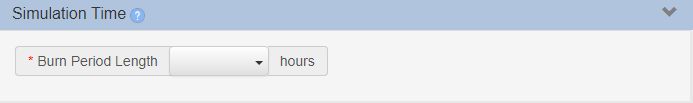
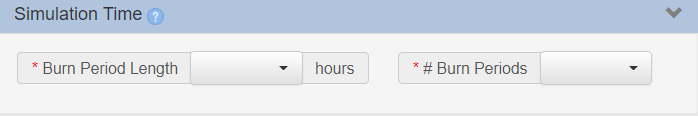
project updates

diff --git a/Content/20-Models/MTT/MTTTutorial.htm b/Content/20-Models/MTT/MTTTutorial.htm
@@ -3,8 +3,64 @@
     <head>
     </head>
     <body>
-        <h1>How to Run Minimum Travel Time (MTT)</h1>
-        <p><a href="https://firenet365.sharepoint.com/:w:/r/sites/IFTDSS_Non_Gov/Shared Documents/General/IBM IFTDSS/IFTDSS Development/Help/Help Center/MTT/Tutorial.docx?d=w7f2e2b6e578c4a989b79c74b4fc39881&amp;csf=1&amp;web=1&amp;e=YmADoY" target="_blank">draft</a>
+        <h1>How to Run Minimum Travel Time Fire Spread (MTT)</h1>
+        <MadCap:snippetBlock src="../../Resources/Snippets/Models/MTT/NamingConventionCallOut.flsnp" />
+        <p>To run Minimum Travel Time Fire Spread (MTT) from the <MadCap:variable name="General.ProductName" /> Modeling Playground, select MTT Fire Spread from the Select Model to Run drop-down menu and click Create Run.</p>
+        <p>
+            <img src="../../Resources/Images/MyPlayground/Play_MTT.png" alt="MTT may be selected from Modeling Playground" class="border" />
         </p>
+        <h2>Choose  a Landscape</h2>
+        <p>Choose a landscape for your run from the drop-down list.</p>
+        <p>
+            <img src="../../Resources/Images/Models/InputsShared/SelectLandscape.png" alt="Select a landscape." class="border" />
+        </p>
+        <h2>Populate the Model Parameters and Run</h2>
+        <MadCap:snippetBlock src="../../Resources/Snippets/Models/LFB/LfbInputs.flsnp" />
+        <ol style="list-style-type: upper-alpha;" start="5">
+            <li>
+                <p>Specify the <a href="In/IgnitionsMTT.htm" target="_blank">ignition</a> for your landscape from the drop-down. The drop-down includes all shapes or shapefiles (points, lines, or polygons) that intersect your landscape.</p>
+                <div class="notificationTip">
+                    <p>In Split screen you may create points, lines, and polygons at anytime in the map interface and <span class="Emphasis">these features will automatically become available in the drop-down menus</span> for the Ignition and Barrier inputs. This includes  <a href="../../10-MapStudio/Functions/CreateEditShps.htm" target="_blank">creating a shape</a>, <a href="../../10-MapStudio/Functions/AddShapefile.htm" target="_blank">uploading a shapefile</a>, creating a shapefile subset <a href="../../10-MapStudio/Files/ShapefileGroup.htm" target="_blank">from the Layer List widget</a>, or <a href="../../10-MapStudio/Functions/AttributeTableShpSubset.htm" target="_blank">from the Attribute Table</a>.</p>
+                </div>
+                <p>
+                    <img src="../../Resources/Images/Models/MTT/MTT_In_Ignitions.png" alt="Shapefiles available in the Ignition field." class="borderlist" />
+                </p>
+            </li>
+            <li>
+                <p>Specify whether you want any <a href="In/BarriersMTT.htm" target="_blank">barriers</a> on your landscape.  The drop-down includes all shapes or shapefiles (lines or polygons) that intersect your landscape.</p>
+                <div class="notificationTip">
+                    <p>Barriers are useful to represent non-burnable parts of your landscape such as roads or water bodies that may not have been captured within the landscape file.</p>
+                </div>
+                <img src="../../Resources/Images/Models/MTT/MTT_In_Barriers.png" alt="Barriers may be selected for the MTT run." class="borderlist" />
+            </li>
+            <li>
+                <p>Enter the <a href="In/SimTimesMTT.htm" target="_blank">simulation time</a>, including the burn period length in hours, and the number of burn periods.</p>
+                <div class="notificationTip">
+                    <p>Use this input to represent the peak fire activity per day (in hours), and the number of days (referred to as burn periods) to model. Note that the weather and fuel moisture inputs remain the same regardless of the number of burn periods.</p>
+                </div>
+                <img src="../../Resources/Images/Models/MTT/MTT_In_SimTime.png" alt="Select the Burn Period Length and Number of Burn Periods from the Simulation Time input." class="borderlist" />
+            </li>
+            <li>
+                <p>Choose to either leave the <a href="In/SpotMTT.htm" target="_blank">Spotting probability</a> as the default 20% (recommended for many scenarios) or adjust it as needed.</p>
+                <p>
+                    <img src="../../Resources/Images/Models/InputsShared/SpottingDefault.png" alt="Spotting default is 20%." class="borderlist" />
+                </p>
+            </li>
+            <li>
+                <p>Give your run a descriptive name.</p>
+            </li>
+            <li>
+                <p>(Optional) If you choose to save your inputs and complete and run at a later time, click <span class="UIcomponent">Save</span>. The <span class="UIcomponent">Return</span> button will appear and clicking it will return you to <span class="UIcomponent">Modeling Playground</span>. To resume inputs on this MTT run, select the run in <span class="UIcomponent">Modeling Playground</span> and click the <span class="UIcomponent">Edit</span> option.</p>
+                <div class="notificationImportant">
+                    <p>A maximum of five MTT runs may be submitted at any given time. If you see a pop-up notifying you that this number has been exceeded, please save any inputs you’ve entered and complete your task when one of the other runs has completed.</p>
+                </div>
+            </li>
+            <li>
+                <p>Click <span class="UIcomponent">Run</span> to begin the model run or <span class="UIcomponent">Save</span> to save any inputs you’ve entered and complete and run the model at a later time. Once run, your model output will be available in <span class="UIcomponent">Modeling Playground</span> and <span class="UIcomponent">My Workspace</span>.</p>
+                <p>
+                    <img src="../../Resources/Images/Models/MTT/MTT_In_RunName.png" alt="Give your model run a name and click Run" class="borderlist" />
+                </p>
+            </li>
+        </ol>
     </body>
 </html>

diff --git a/Content/50-Hover/Models/MTT/ignition_hh.htm b/Content/50-Hover/Models/MTT/ignition_hh.htm
@@ -4,6 +4,29 @@
         <link href="../../../Resources/Stylesheets/NoTopNav.css" rel="stylesheet" type="text/css" />
     </head>
     <body>
-        <p>Ignition MTT</p>
+        <p>Select a shape or shapefile (it may be multipart if needed) to indicate the location and pattern of ignition on the landscape. You may use points, lines, or polygons for this task.</p>
+        <p>You may upload or create an ignition file in this interface if you do not yet have one, the drop-down menus will automatically update.</p>
+        <p>To ensure successful MTT run completion:</p>
+        <ul>
+            <li>
+                <p>Do not use ignition files that land completely in unburnable fuels or within a barrier.</p>
+            </li>
+            <li>
+                <p>If barriers are also used, ensure barriers and ignitions are at least one cell width away from each other.</p>
+            </li>
+        </ul>
+        <p>Important considerations include:</p>
+        <ul>
+            <li>
+                <p>If a polygon is used, MTT treats the area within the polygon as non-burnable; fire is not permitted to burn inward.</p>
+            </li>
+            <li>
+                <p>Once MTT is run, the ignition file will be converted to a raster format with the same resolution as the rest of the landscape.</p>
+            </li>
+            <li>
+                <p>Once a shape or shapefile is selected for the ignition input, it may not be used for the barrier input.</p>
+            </li>
+        </ul>
+        <p>See the <a href="../../../20-Models/MTT/In/IgnitionsMTT.htm" target="_blank">Ignition topic</a> for more information.</p>
     </body>
 </html>

diff --git a/Content/50-Hover/Models/MTT/barrier_hh.htm b/Content/50-Hover/Models/MTT/barrier_hh.htm
@@ -4,6 +4,21 @@
         <link href="../../../Resources/Stylesheets/NoTopNav.css" rel="stylesheet" type="text/css" />
     </head>
     <body>
-        <p>Barriers MTT</p>
+        <p>Select a shape or shapefile (it may be multipart if needed) to indicate the location and pattern of nonburnable areas on the landscape, you may use lines or polygons. This is useful for areas such as roads or water bodies that may have been classified as a burnable fuel type within the landscape file.</p>
+        <p>You may upload or create a barrier file in this interface if you do not yet have one, the drop-down menus will automatically update.</p>
+        <p>For successful MTT run completion, ensure barriers and ignitions are at least one cell width away from each other.</p>
+        <p>Important considerations include:</p>
+        <ul>
+            <li>
+                <p>If a polygon is selected, the area within will be treated as burnable unless the “fill polygon” radio button is selected.</p>
+            </li>
+            <li>
+                <p>Once MTT is run, the barrier file will be converted to a raster format with the same resolution as the rest of the landscape, if you need to represent a fuel break of a specific size, consider using a polygon rather than a line.</p>
+            </li>
+            <li>
+                <p>If a shape or shapefile is selected for the barrier input, it may not be used for the ignition input.</p>
+            </li>
+        </ul>
+        <p>See the <a href="../../../20-Models/MTT/In/BarriersMTT.htm" target="_blank">Barriers topic</a> for more information.</p>
     </body>
 </html>

diff --git a/Content/50-Hover/Models/MTT/simulation_time_hh.htm b/Content/50-Hover/Models/MTT/simulation_time_hh.htm
@@ -4,6 +4,9 @@
         <link href="../../../Resources/Stylesheets/NoTopNav.css" rel="stylesheet" type="text/css" />
     </head>
     <body>
-        <p>Simulation time MTT</p>
+        <p>Simulation Time specifies the duration of the fire growth for the set of <a href="../../../20-Models/MTT/In/EstFuelMoisturesMTT.htm" target="_blank">fuel moisture</a> and <a href="../../../20-Models/MTT/In/WindMTT.htm" target="_blank">wind</a> conditions specified.  Simulation Time is input in two steps, the first specifying the burn period length, and the second specifying the number of of burn periods.</p>
+        <p><b>Burn Period Length</b>: This describes the duration of fire activity for each burn period, in hours (1-24).</p>
+        <p><b>Number of Simulations</b>: This describes the number for burn periods (1-5) for your simulation.</p>
+        <p>See the <a href="../../../20-Models/MTT/In/SimTimesMTT.htm" target="_blank">Simulation Time topic</a> for more information.</p>
     </body>
 </html>

diff --git a/Content/50-Hover/Models/MTT/spotting_hh.htm b/Content/50-Hover/Models/MTT/spotting_hh.htm
@@ -4,6 +4,7 @@
         <link href="../../../Resources/Stylesheets/NoTopNav.css" rel="stylesheet" type="text/css" />
     </head>
     <body>
-        <p>Spotting  is intended to compute the maximum spotting distance from a given point on a fire front if torching occurs. See the <a href="../../../20-Models/MTT/In/SpotMTT.htm" target="_blank">Spotting topic</a> for more detail.</p>
+        <p>The Spotting Probability input (0-100%) controls how many of the pixels, where crown fire is initiated, actually launch embers which can “spot” to start new fires. Entering 100% means that all points on the landscape where crown fire is initiated will launch embers. A value of 0% in essence turns off spotting. Spotting Probability of 20% is the recommended input and the default in <MadCap:variable name="General.ProductName" />. </p>
+        <p> See the <a href="../../../20-Models/MTT/In/SpotMTT.htm" target="_blank">Spotting topic</a> for more detail.</p>
     </body>
 </html>

diff --git a/Content/50-Hover/Models/MTT/5_FMcondition_hh.htm b/Content/50-Hover/Models/MTT/5_FMcondition_hh.htm
@@ -4,6 +4,11 @@
         <link href="../../../Resources/Stylesheets/NoTopNav.css" rel="stylesheet" type="text/css" />
     </head>
     <body>
-        <p>FM Conditioning MTT</p>
+        <p>Fuel moisture condition choices include:</p>
+        <p>Do Not Condition (Use Initial Fuel Moistures): Uses the Initial Fuel Moistures you entered above across your entire landscape.</p>
+        <p>Condition (Select Classified Weather Stream): Adjusts Initial Fuel Moistures for topography and weather using an automatically generated weather stream from <MadCap:variable name="General.ProductName"></MadCap:variable>.</p>
+        <p>Condition (Upload Weather Stream File): Adjusts Initial Fuel Moistures for topography and weather using a weather stream (.wxs) file you import.</p>
+        <p><a href="../../../20-Models/MTT/In/DeadFMConditioningMTT.htm" target="_blank">More details on Fuel Moisture Conditioning</a>
+        </p>
     </body>
 </html>

diff --git a/Content/50-Hover/Models/MTT/2_wind_hh.htm b/Content/50-Hover/Models/MTT/2_wind_hh.htm
@@ -4,6 +4,10 @@
         <link href="../../../Resources/Stylesheets/NoTopNav.css" rel="stylesheet" type="text/css" />
     </head>
     <body>
-        <p>wind MTT</p>
+        <p><u>Select wind type</u>: Options include gridded, for complex terrain, uphill/downhill for simple diurnal winds, or static. See <a href="../../../20-Models/MTT/In/WindMTT.htm" target="_blank">Wind</a> for a more detailed description of each.</p>
+        <p><u>Enter windspeed</u>, in miles per hour, at 20 feet above the ground or above the vegetation.</p>
+        <p><u>Enter  the direction</u> the wind is blowing from (in degrees).</p>
+        <p><a href="../../../20-Models/MTT/In/WindMTT.htm" target="_blank">More Information</a>
+        </p>
     </body>
 </html>

diff --git a/Content/50-Hover/Models/MTT/4_FM_hh.htm b/Content/50-Hover/Models/MTT/4_FM_hh.htm
@@ -4,6 +4,7 @@
         <link href="../../../Resources/Stylesheets/NoTopNav.css" rel="stylesheet" type="text/css" />
     </head>
     <body>
-        <p>FM MTT</p>
+        <p>Enter dead (1,10, and 100 hour size classes) and live (herbaceous and woody) fuel moistures in percent. (<a href="../../../20-Models/MTT/In/EstFuelMoisturesMTT.htm" target="_blank">Fuel moisture guidance available here</a>)</p>
+        <p>(Optional) Add Rows to specify fuel moistures for individual <a href="../../../10-MapStudio/Files/FBFMSummaries.htm" target="_blank">fire behavior fuel models</a>. Any fuels not addressed by a specific row use the values in the top row by default.</p>
     </body>
 </html>

diff --git a/Content/50-Hover/Models/MTT/LCPselect.htm b/Content/50-Hover/Models/MTT/LCPselect.htm
@@ -4,6 +4,7 @@
         <link href="../../../Resources/Stylesheets/NoTopNav.css" rel="stylesheet" type="text/css" />
     </head>
     <body>
-        <p>MTT Select LCP</p>
+        <p>Select a landscape to run fire behavior on. </p>
+        <p>If you do not have a landscape yet, you may navigate to the <MadCap:variable name="General.ProductName" /><span class="UIcomponent">Cycle</span>, select the <span class="UIcomponent">Landscape Evaluation</span> stage, and click <a href="../../../00-Concepts/Cheatsheet_Landscapes.htm" target="_blank">Create Landscape</a> to create one.</p>
     </body>
 </html>

diff --git a/Content/50-Hover/Models/MTT/3_crownfire_hh.htm b/Content/50-Hover/Models/MTT/3_crownfire_hh.htm
@@ -4,6 +4,7 @@
         <link href="../../../Resources/Stylesheets/NoTopNav.css" rel="stylesheet" type="text/css" />
     </head>
     <body>
-        <p>crown MTT</p>
+        <p>Choose a crown fire method, See <a href="../../../20-Models/MTT/In/CrownMethodsMTT.htm" target="_blank">Crown Fire Methods</a> for details about the two methods (Generally, significantly less predicted crown fire activity in Finney’s method compared to Scott and Reinhardt’s method).</p>
+        <p>Enter tree foliar moisture content in percent. </p>
     </body>
 </html>

diff --git a/Content/50-Hover/Models/MTT/runname_hh.htm b/Content/50-Hover/Models/MTT/runname_hh.htm
@@ -4,6 +4,6 @@
         <link href="../../../Resources/Stylesheets/NoTopNav.css" rel="stylesheet" type="text/css" />
     </head>
     <body>
-        <p>run name MTT</p>
+        <p>Give your run a descriptive name. </p>
     </body>
 </html>
